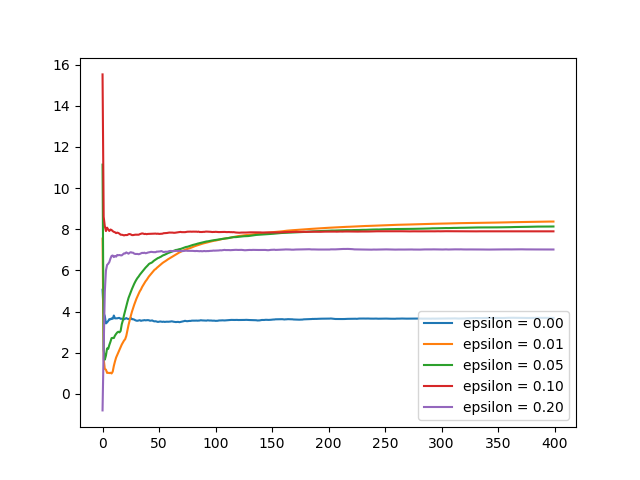
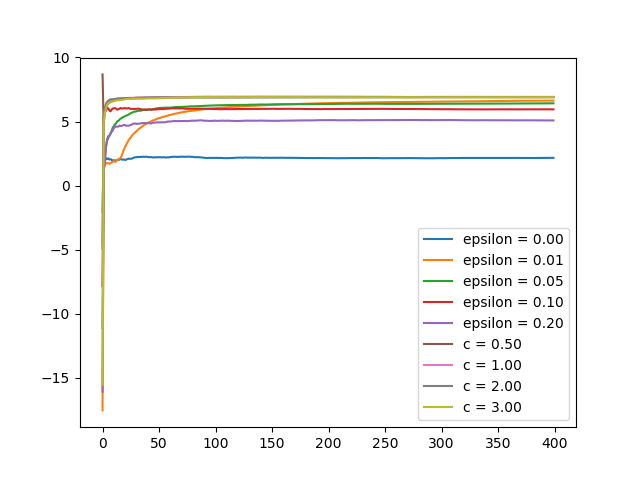
added UCB algorithm

diff --git a/k-armed-bandit.py b/k-armed-bandit.py
@@ -34,6 +34,28 @@ def k_armed_bandit(k, epsilon, iterations, distributions):
 
     return np.asarray(history)
 
+def UCB(k, c, iterations, distributions):
+
+    total_reward = 0
+    history = []
+
+    values = np.zeros(shape=(k, 2))
+    values[:, 1] = 1E-8
+
+    for i in range(iterations):
+        n = randargmax(values[:, 0] + c * np.sqrt(np.log(i + 1) / values[:, 1]))
+        reward = random.gauss(distributions[n][0], distributions[n][1])
+        values[n, 1] += 1
+        values[n, 0] += (reward - values[n, 0]) / values[n, 1]
+        total_reward += reward
+        if i % 50 == 1:
+            history.append(total_reward / i)
+
+    print("Average reward for UCB after {} iterations with c = {}: {}".format(iterations, c,
+                                                                            total_reward / iterations))
+
+    return np.asarray(history)
+
 def randargmax(b):
     return np.random.choice(np.flatnonzero(b == b.max()))
 
@@ -49,12 +71,17 @@ if __name__ == "__main__":
         distributions.append([mean, variance])
 
     epsilons = [0, 0.01, 0.05, 0.1, 0.2]
+    cs = [.5, 1, 2, 3]
 
     for epsilon in epsilons:
         data = k_armed_bandit(10, epsilon, iterations, distributions=distributions)
         plt.plot(np.arange(len(data)), data, label = "epsilon = {:0.2f}".format(epsilon))
 
-    plt.legend(loc='lower right')
+    for c in cs:
+        data = UCB(10, c, iterations, distributions=distributions)
+        plt.plot(np.arange(len(data)), data, label = "c = {:0.2f}".format(c))
+
+    plt.legend(loc='best')
     plt.savefig('epsilon-greedy.png')
     plt.show()
 
